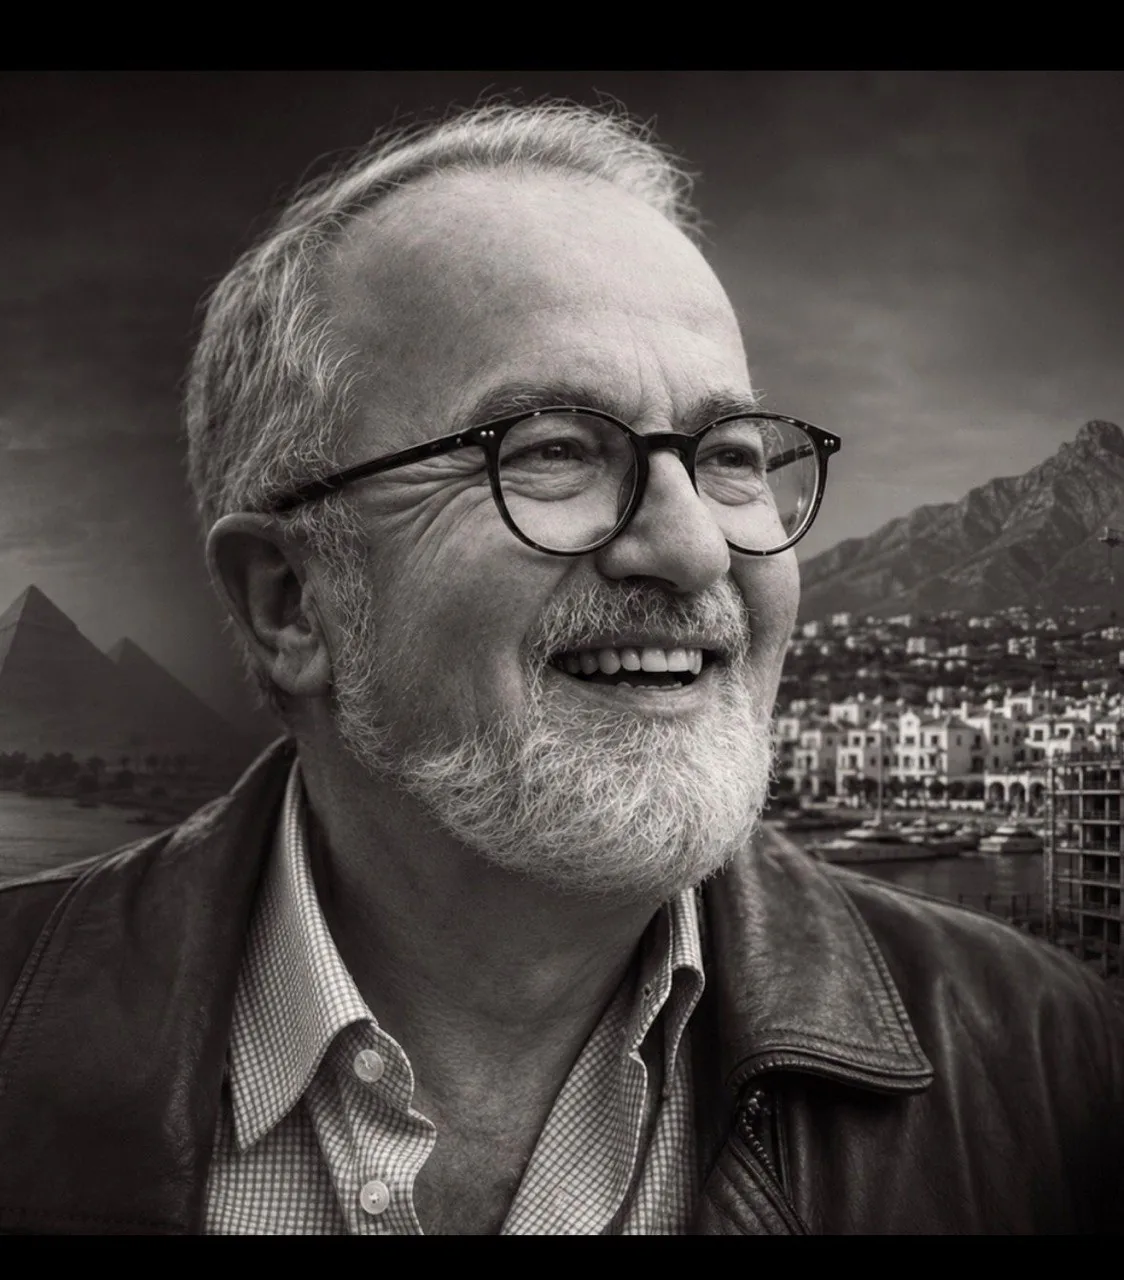
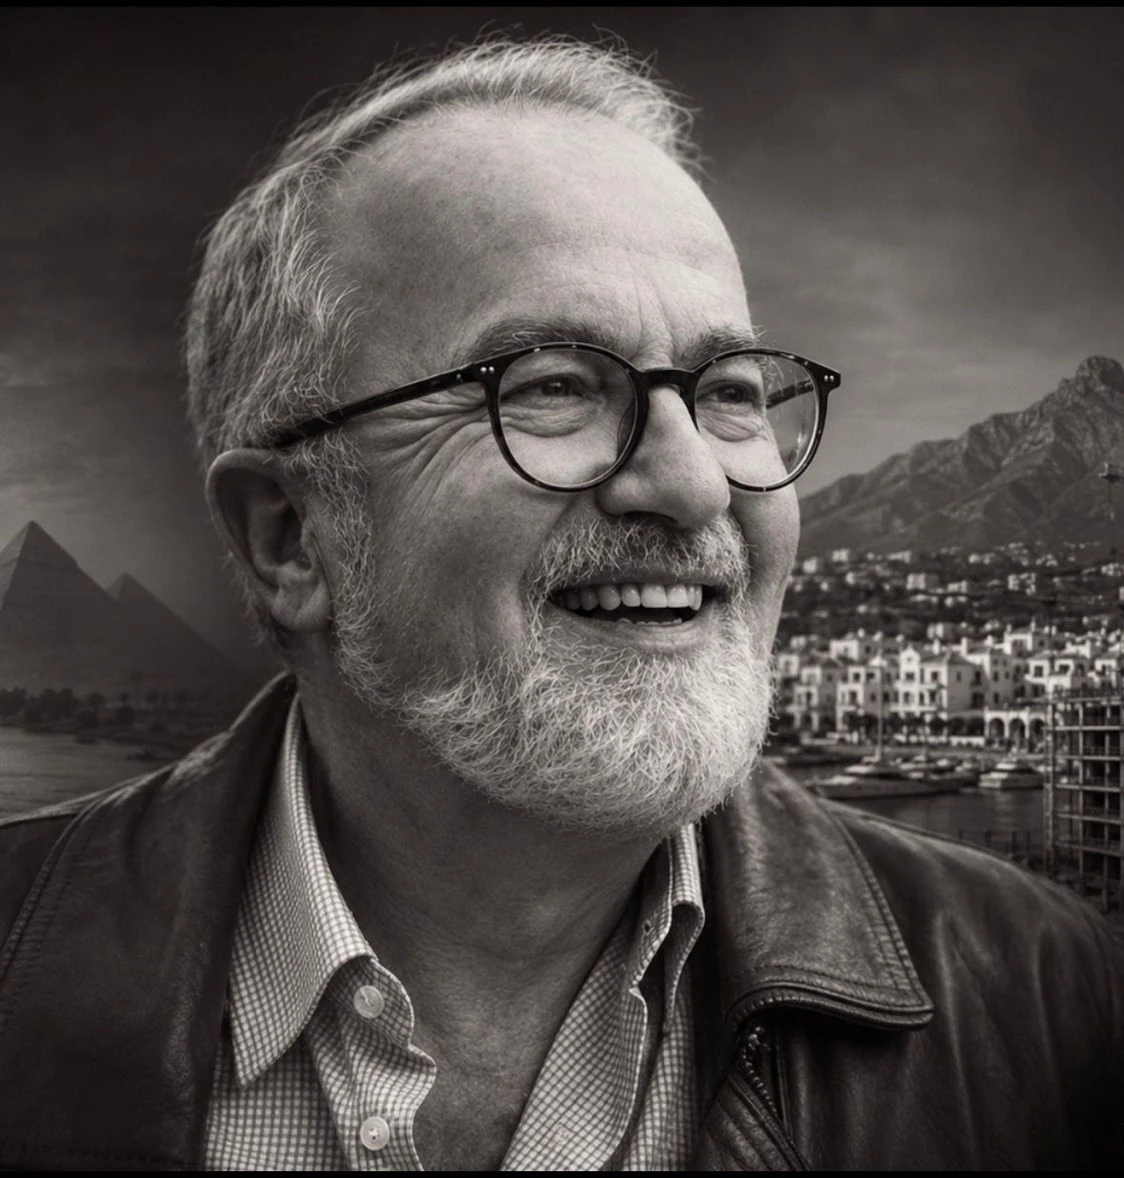
fix(angimen): foto sin bandas negras + 3 idiomas consistente + traducciones ES
- Foto George Kahil recortada (1124x1280 → 1124x1178) eliminando bandas
  negras intrínsecas del JPG. Añadida también a EN + AR (antes faltaba).
- Topbar + stat-band + origin-stats todos a "3 idiomas · ES · EN · AR"
  (antes inconsistente: 3 banderas arriba vs "4 idiomas · ES·EN·AR·FR" abajo).
  Página FR no existe todavía, queda como decisión pendiente.
- index.html ES: title/description/schema/áreas/footer/hero/H1/tags portfolio
  todo en español ("Property Management" → "Gestión de propiedades",
  "House Management" → "Gestión de propiedades", "Beach Clubs" → "Clubs de playa",
  "Wellness" → "Spa", "Construction · Renovation · Maintenance" → ES).
- Portfolio EN + AR: eliminados 6 items fake (Villa Golden Mile, Banús
  Apartment, Sierra Blanca Gardens, Central Façade, MaxBeach Wellness,
  Banús Commercial) que reusaban imágenes de restaurantes. Sustituidos
  por placeholder único "casos privados bajo NDA" (idéntico a ES).

diff --git a/ar/index.html b/ar/index.html
@@ -247,46 +247,17 @@
                     <span class="portfolio-item-cat-tag">نادٍ شاطئي</span>
                 </div>
             </article>
-            <article class="portfolio-item" data-cat="villas" data-name="Villa Golden Mile" data-loc="جولدن مايل، ماربيلا" data-work="إدارة الممتلكات · صيانة شاملة" data-desc="إشراف دوري على العقار، تنسيق الحدائق والمسبح، التحكّم في الأعطال، والتحضير قبل وصول المالك. إدارة على مدار العام." data-img="../assets/img/c/cibo-interior.jpg">
-                <div class="portfolio-item-img"><img src="../assets/img/c/cibo-interior.jpg" alt="فيلا جولدن مايل · ماربيلا" loading="lazy"></div>
-                <div class="portfolio-item-info">
-                    <div><h4 class="portfolio-item-name">Villa Golden Mile</h4><div class="portfolio-item-meta"><span>جولدن مايل · ماربيلا</span><span>إدارة الممتلكات</span></div></div>
-                    <span class="portfolio-item-cat-tag">فيلا خاصة</span>
+            <!-- مشاريع سكنية خاصة في انتظار صور فعلية من العميل -->
+            <article class="portfolio-item portfolio-item-pending" data-cat="villas" data-name="مزيد من الحالات الخاصة">
+                <div class="portfolio-item-img portfolio-item-placeholder" aria-hidden="true">
+                    <div class="placeholder-inner">
+                        <span class="placeholder-icon">+</span>
+                        <span class="placeholder-text">مزيد من الحالات الخاصة</span>
+                    </div>
                 </div>
-            </article>
-            <article class="portfolio-item" data-cat="apartamentos" data-name="شقة بويرتو بانوس" data-loc="بويرتو بانوس، ماربيلا" data-work="تجديد · ديكور" data-desc="تجديد جزئي مع تحديث المطبخ والحمامات والمناطق المشتركة. ديكور وتجهيز للإيجار السياحي. تنسيق بمواعيد محدّدة." data-img="../assets/img/c/koi-interior.jpg">
-                <div class="portfolio-item-img"><img src="../assets/img/c/koi-interior.jpg" alt="شقة بويرتو بانوس" loading="lazy"></div>
                 <div class="portfolio-item-info">
-                    <div><h4 class="portfolio-item-name">شقة بانوس</h4><div class="portfolio-item-meta"><span>بويرتو بانوس · ماربيلا</span><span>تجديد · ديكور</span></div></div>
-                    <span class="portfolio-item-cat-tag">شقة</span>
-                </div>
-            </article>
-            <article class="portfolio-item" data-cat="exteriores" data-name="حدائق سييرا بلانكا" data-loc="سييرا بلانكا، ماربيلا" data-work="صيانة · تصميم خارجي" data-desc="صيانة شاملة للحدائق ونظام الري ومنطقة المسبح. تنسيق الطلاء والنجارة الخارجية ومراجعة الأعطال الموسمية." data-img="../assets/img/c/leone-interior.jpg">
-                <div class="portfolio-item-img"><img src="../assets/img/c/leone-interior.jpg" alt="حدائق سييرا بلانكا" loading="lazy"></div>
-                <div class="portfolio-item-info">
-                    <div><h4 class="portfolio-item-name">حدائق سييرا بلانكا</h4><div class="portfolio-item-meta"><span>سييرا بلانكا · ماربيلا</span><span>صيانة · خارجي</span></div></div>
-                    <span class="portfolio-item-cat-tag">حدائق</span>
-                </div>
-            </article>
-            <article class="portfolio-item" data-cat="fachadas" data-name="واجهة مبنى المركز" data-loc="وسط ماربيلا" data-work="طلاء · إصلاح" data-desc="طلاء وإصلاح الواجهة الرئيسية. مراجعة الرطوبات والأعطال، تنسيق الأعمال العمودية، وتحسين جمالي للمداخل." data-img="../assets/img/c/cibo-architectural.jpg">
-                <div class="portfolio-item-img"><img src="../assets/img/c/cibo-architectural.jpg" alt="واجهة وسط ماربيلا" loading="lazy"></div>
-                <div class="portfolio-item-info">
-                    <div><h4 class="portfolio-item-name">واجهة مبنى المركز</h4><div class="portfolio-item-meta"><span>وسط ماربيلا</span><span>طلاء · إصلاح</span></div></div>
-                    <span class="portfolio-item-cat-tag">واجهة</span>
-                </div>
-            </article>
-            <article class="portfolio-item" data-cat="wellness" data-name="MaxBeach Wellness" data-loc="ماربيلا" data-work="تجهيز · صيانة" data-desc="تجهيز فضاء الويلنس ومنطقة التدريب. تنسيق التركيبات والأرضيات الفنية والإضاءة والتكييف. صيانة وقائية مستمرة." data-img="../assets/img/c/jacks-interior.jpg">
-                <div class="portfolio-item-img"><img src="../assets/img/c/jacks-interior.jpg" alt="MaxBeach Wellness · ماربيلا" loading="lazy"></div>
-                <div class="portfolio-item-info">
-                    <div><h4 class="portfolio-item-name">MaxBeach Wellness</h4><div class="portfolio-item-meta"><span>ماربيلا</span><span>تجهيز · صيانة</span></div></div>
-                    <span class="portfolio-item-cat-tag">ويلنس</span>
-                </div>
-            </article>
-            <article class="portfolio-item" data-cat="comerciales" data-name="محل بانوس" data-loc="بويرتو بانوس، ماربيلا" data-work="تجديد · تنسيق" data-desc="تجديد المحل التجاري مع التكييف للاستخدام اليومي. تنسيق التركيبات الكهربائية، التكييف، والإشراف الفني على التسليم." data-img="../assets/img/c/jacks-interior.jpg">
-                <div class="portfolio-item-img"><img src="../assets/img/c/jacks-interior.jpg" alt="محل بانوس" loading="lazy"></div>
-                <div class="portfolio-item-info">
-                    <div><h4 class="portfolio-item-name">محل بانوس</h4><div class="portfolio-item-meta"><span>بويرتو بانوس · ماربيلا</span><span>تجديد · تنسيق</span></div></div>
-                    <span class="portfolio-item-cat-tag">محل تجاري</span>
+                    <div><h4 class="portfolio-item-name">حالات سكنية خاصة</h4><div class="portfolio-item-meta"><span>ماربيلا · بويرتو بانوس · جولدن مايل</span><span>متاحة بموجب اتفاقية سرّية</span></div></div>
+                    <span class="portfolio-item-cat-tag">خاص</span>
                 </div>
             </article>
         </div>
@@ -299,13 +270,22 @@
     <div class="origin-content fade-in">
         <span class="eyebrow">— تاريخنا —</span>
         <h2>مبنيٌّ على <em>40 عاماً</em><br>من الخبرة.</h2>
+
+        <figure class="origin-portrait">
+            <picture>
+                <source srcset="../assets/img/george-kahil-portrait.webp" type="image/webp">
+                <img src="../assets/img/george-kahil-portrait.jpg" alt="جورج كاهيل — مؤسس أنجيمن هولدنغ" loading="lazy" decoding="async" width="1124" height="1178">
+            </picture>
+            <figcaption>جورج كاهيل · المؤسس · ماربيلا منذ أكثر من أربعة عقود</figcaption>
+        </figure>
+
         <p>وُلدت أنجيمن هولدنغ من رؤية <strong>جورج كاهيل</strong> ومسار يزيد على أربعة عقود مرتبطٍ بقطاع العقارات والبناء والتجديد وصيانة الممتلكات في ماربيلا وكوستا ديل سول.</p>
         <p>عملنا إلى جانب مُلّاك ومجمّعات وشركات وعملاء دوليين كانوا بحاجة إلى أكثر من مجرّد مزوّد: كانوا بحاجة إلى شخصٍ محلي، جدّي، وقادر على تنسيق كل تفصيل.</p>
         <p>نعرف ماربيلا، ومناطقها الأكثر تميّزاً، وعقاراتها، وإيقاعها، ومتطلّباتها. نعرف أيضاً المهنيين المناسبين لتنفيذ كل عمل بحكمة وسرّية ومتابعة.</p>
         <div class="origin-stats">
             <div><div class="origin-stat-num"><em>40+</em> عاماً</div><div class="origin-stat-label">من الخبرة</div></div>
             <div><div class="origin-stat-num"><em>1996</em></div><div class="origin-stat-label">سنة التأسيس</div></div>
-            <div><div class="origin-stat-num">4 لغات</div><div class="origin-stat-label">ES · EN · AR · FR</div></div>
+            <div><div class="origin-stat-num">3 لغات</div><div class="origin-stat-label">ES · EN · AR</div></div>
         </div>
     </div>
 </section>

diff --git a/en/index.html b/en/index.html
@@ -261,46 +261,17 @@
                     <span class="portfolio-item-cat-tag">Beach Club</span>
                 </div>
             </article>
-            <article class="portfolio-item" data-cat="villas" data-name="Villa Golden Mile" data-loc="Golden Mile, Marbella" data-work="House Management · Maintenance" data-desc="Periodic property supervision, coordination of gardening and pool, incident control and preparation before owner arrival. Year-round management." data-img="../assets/img/c/cibo-interior.jpg">
-                <div class="portfolio-item-img"><img src="../assets/img/c/cibo-interior.jpg" alt="Villa Golden Mile · Marbella" loading="lazy"></div>
-                <div class="portfolio-item-info">
-                    <div><h4 class="portfolio-item-name">Villa Golden Mile</h4><div class="portfolio-item-meta"><span>Golden Mile · Marbella</span><span>House Management</span></div></div>
-                    <span class="portfolio-item-cat-tag">Private Villa</span>
+            <!-- Residential portfolio items pending real photos from client -->
+            <article class="portfolio-item portfolio-item-pending" data-cat="villas" data-name="More private cases">
+                <div class="portfolio-item-img portfolio-item-placeholder" aria-hidden="true">
+                    <div class="placeholder-inner">
+                        <span class="placeholder-icon">+</span>
+                        <span class="placeholder-text">More private cases</span>
+                    </div>
                 </div>
-            </article>
-            <article class="portfolio-item" data-cat="apartamentos" data-name="Puerto Banús Apartment" data-loc="Puerto Banús, Marbella" data-work="Renovation · Decoration" data-desc="Partial renovation updating kitchen, bathrooms and common areas. Decoration and set-up for holiday rental. Coordination with defined deadlines." data-img="../assets/img/c/koi-interior.jpg">
-                <div class="portfolio-item-img"><img src="../assets/img/c/koi-interior.jpg" alt="Puerto Banús Apartment · Marbella" loading="lazy"></div>
                 <div class="portfolio-item-info">
-                    <div><h4 class="portfolio-item-name">Banús Apartment</h4><div class="portfolio-item-meta"><span>Puerto Banús · Marbella</span><span>Renovation · Decoration</span></div></div>
-                    <span class="portfolio-item-cat-tag">Apartment</span>
-                </div>
-            </article>
-            <article class="portfolio-item" data-cat="exteriores" data-name="Sierra Blanca Gardens" data-loc="Sierra Blanca, Marbella" data-work="Maintenance · Outdoor design" data-desc="Comprehensive garden maintenance, irrigation system and pool area. Coordination of painting, outdoor carpentry and seasonal incident review." data-img="../assets/img/c/leone-interior.jpg">
-                <div class="portfolio-item-img"><img src="../assets/img/c/leone-interior.jpg" alt="Sierra Blanca Gardens · Marbella" loading="lazy"></div>
-                <div class="portfolio-item-info">
-                    <div><h4 class="portfolio-item-name">Sierra Blanca Gardens</h4><div class="portfolio-item-meta"><span>Sierra Blanca · Marbella</span><span>Maintenance · Outdoor</span></div></div>
-                    <span class="portfolio-item-cat-tag">Gardens</span>
-                </div>
-            </article>
-            <article class="portfolio-item" data-cat="fachadas" data-name="Central Building Façade" data-loc="Marbella centre" data-work="Painting · Repair" data-desc="Main façade painting and repair. Damp and damage review, coordination of vertical works and aesthetic improvement of access points." data-img="../assets/img/c/cibo-architectural.jpg">
-                <div class="portfolio-item-img"><img src="../assets/img/c/cibo-architectural.jpg" alt="Marbella centre façade" loading="lazy"></div>
-                <div class="portfolio-item-info">
-                    <div><h4 class="portfolio-item-name">Central Building Façade</h4><div class="portfolio-item-meta"><span>Marbella centre</span><span>Painting · Repair</span></div></div>
-                    <span class="portfolio-item-cat-tag">Façade</span>
-                </div>
-            </article>
-            <article class="portfolio-item" data-cat="wellness" data-name="MaxBeach Wellness" data-loc="Marbella" data-work="Refit · Maintenance" data-desc="Refit of wellness and training area. Coordination of installations, technical flooring, lighting and climate control. Ongoing preventive maintenance." data-img="../assets/img/c/jacks-interior.jpg">
-                <div class="portfolio-item-img"><img src="../assets/img/c/jacks-interior.jpg" alt="MaxBeach Wellness · Marbella" loading="lazy"></div>
-                <div class="portfolio-item-info">
-                    <div><h4 class="portfolio-item-name">MaxBeach Wellness</h4><div class="portfolio-item-meta"><span>Marbella</span><span>Refit · Maintenance</span></div></div>
-                    <span class="portfolio-item-cat-tag">Wellness</span>
-                </div>
-            </article>
-            <article class="portfolio-item" data-cat="comerciales" data-name="Banús Commercial Unit" data-loc="Puerto Banús, Marbella" data-work="Renovation · Coordination" data-desc="Commercial space renovation adapted to daily business use. Coordination of electrical installations, climate control and technical handover supervision." data-img="../assets/img/c/jacks-interior.jpg">
-                <div class="portfolio-item-img"><img src="../assets/img/c/jacks-interior.jpg" alt="Puerto Banús commercial unit" loading="lazy"></div>
-                <div class="portfolio-item-info">
-                    <div><h4 class="portfolio-item-name">Banús Commercial Unit</h4><div class="portfolio-item-meta"><span>Puerto Banús · Marbella</span><span>Renovation · Coordination</span></div></div>
-                    <span class="portfolio-item-cat-tag">Commercial</span>
+                    <div><h4 class="portfolio-item-name">Private residential cases</h4><div class="portfolio-item-meta"><span>Marbella · Puerto Banús · Golden Mile</span><span>Available under NDA</span></div></div>
+                    <span class="portfolio-item-cat-tag">Private</span>
                 </div>
             </article>
         </div>
@@ -313,13 +284,22 @@
     <div class="origin-content fade-in">
         <span class="eyebrow">— Our story —</span>
         <h2>Built on <em>40 years</em><br>of experience.</h2>
+
+        <figure class="origin-portrait">
+            <picture>
+                <source srcset="../assets/img/george-kahil-portrait.webp" type="image/webp">
+                <img src="../assets/img/george-kahil-portrait.jpg" alt="George Kahil — founder of Angimen Holding" loading="lazy" decoding="async" width="1124" height="1178">
+            </picture>
+            <figcaption>George Kahil · founder · Marbella for more than four decades</figcaption>
+        </figure>
+
         <p>Angimen Holding was born from the vision of <strong>George Kahil</strong> and a trajectory of more than four decades linked to the real estate, construction, renovation and maintenance sectors in Marbella and the Costa del Sol.</p>
         <p>We have worked alongside owners, communities, businesses and international clients who needed more than just a provider: they needed someone local, serious and capable of coordinating every detail.</p>
         <p>We know Marbella, its most exclusive areas, its properties, its rhythms and its demands. We also know the right professionals to execute each task with judgement, discretion and follow-through.</p>
         <div class="origin-stats">
             <div><div class="origin-stat-num"><em>40+</em> years</div><div class="origin-stat-label">Of experience</div></div>
             <div><div class="origin-stat-num"><em>1996</em></div><div class="origin-stat-label">Company established</div></div>
-            <div><div class="origin-stat-num">4 languages</div><div class="origin-stat-label">ES · EN · AR · FR</div></div>
+            <div><div class="origin-stat-num">3 languages</div><div class="origin-stat-label">ES · EN · AR</div></div>
         </div>
     </div>
 </section>

diff --git a/index.html b/index.html
@@ -4,8 +4,8 @@
     <meta charset="UTF-8">
     <meta name="viewport" content="width=device-width, initial-scale=1.0">
     <meta name="theme-color" content="#F4EDE0">
-    <title>Property Management, Construcción y Reformas en Marbella · Angimen Holding</title>
-    <meta name="description" content="Property Management, Construcción, Reformas y Mantenimiento de propiedades de alto nivel en Marbella, Puerto Banús y Golden Mile. Más de 40 años de experiencia.">
+    <title>Gestión de propiedades, Construcción y Reformas en Marbella · Angimen Holding</title>
+    <meta name="description" content="Gestión de propiedades, Construcción, Reformas y Mantenimiento de propiedades de alto nivel en Marbella, Puerto Banús y Golden Mile. Más de 40 años de experiencia.">
     <meta name="robots" content="noindex,nofollow">
     <link rel="canonical" href="https://angimenholding.com/">
 
@@ -16,7 +16,7 @@
     <link rel="alternate" hreflang="ar-SA" href="https://angimenholding.com/ar/">
     <link rel="alternate" hreflang="x-default" href="https://angimenholding.com/">
 
-    <meta property="og:title" content="Property Management, Construcción y Reformas en Marbella · Angimen Holding">
+    <meta property="og:title" content="Gestión de propiedades, Construcción y Reformas en Marbella · Angimen Holding">
     <meta property="og:description" content="Más de 40 años gestionando, construyendo, reformando y manteniendo propiedades de alto nivel en Marbella.">
     <meta property="og:type" content="website">
     <meta property="og:locale" content="es_ES">
@@ -39,7 +39,7 @@
       "@id": "https://angimenholding.com/#business",
       "name": "Angimen Holding",
       "legalName": "Angimen Holding Investment SL",
-      "description": "Property Management, Construcción, Reformas y Mantenimiento de propiedades de alto nivel en Marbella, Puerto Banús y Golden Mile. Más de 40 años de experiencia.",
+      "description": "Gestión de propiedades, Construcción, Reformas y Mantenimiento de propiedades de alto nivel en Marbella, Puerto Banús y Golden Mile. Más de 40 años de experiencia.",
       "url": "https://angimenholding.com/",
       "image": "https://angimenholding.com/assets/img/hero/villa_marbella.jpg",
       "telephone": "+34000000000",
@@ -62,8 +62,8 @@
         "@type": "OfferCatalog",
         "name": "Servicios Angimen Holding",
         "itemListElement": [
-          {"@type": "Offer", "itemOffered": {"@type": "Service", "name": "House Management — Gestión de comunidades, fincas y villas privadas"}},
-          {"@type": "Offer", "itemOffered": {"@type": "Service", "name": "Construcción y Reforma — Villas, apartamentos, fachadas, restaurantes, beach clubs"}},
+          {"@type": "Offer", "itemOffered": {"@type": "Service", "name": "Gestión de propiedades — Comunidades, fincas y villas privadas"}},
+          {"@type": "Offer", "itemOffered": {"@type": "Service", "name": "Construcción y Reforma — Villas, apartamentos, fachadas, restaurantes, clubs de playa"}},
           {"@type": "Offer", "itemOffered": {"@type": "Service", "name": "Mantenimiento de propiedades — Jardines, piscinas, instalaciones, urgencias"}},
           {"@type": "Offer", "itemOffered": {"@type": "Service", "name": "Soporte inmobiliario para propietarios internacionales"}}
         ]
@@ -104,7 +104,7 @@
     </div>
     <div class="hero-content">
         <span class="hero-eyebrow">— Marbella · Puerto Banús · Golden Mile · Sierra Blanca · La Zagaleta —</span>
-        <h1>Property Management,<br>Construcción y Reformas<br>en Marbella, <em>desde 1996.</em></h1>
+        <h1>Gestión de propiedades,<br>Construcción y Reformas<br>en Marbella, <em>desde 1996.</em></h1>
         <p class="hero-tagline">Más de 40 años de experiencia gestionando, construyendo, reformando y manteniendo propiedades de alto nivel en Marbella, Puerto Banús y la Costa del Sol.</p>
         <div class="hero-cta">
             <a href="#contacto" class="btn btn-accent">Reservar consulta privada</a>
@@ -125,8 +125,8 @@
             <div class="stat-label">Angimen Holding Investment SL</div>
         </div>
         <div class="stat-item fade-in">
-            <div class="stat-num">Atención <em>multilingüe</em></div>
-            <div class="stat-label">Español · English · العربية</div>
+            <div class="stat-num">Atención <em>trilingüe</em></div>
+            <div class="stat-label">Español · Inglés · Árabe</div>
         </div>
     </div>
 </section>
@@ -157,7 +157,7 @@
             <article class="area-row fade-in">
                 <div class="area-row-num">01</div>
                 <div class="area-row-content">
-                    <h3>House <em>Management</em></h3>
+                    <h3>Gestión <em>de propiedades</em></h3>
                     <p>Gestión diaria de propiedades premium para que todo funcione, se mantenga y esté siempre en buen estado. Trabajamos con comunidades de lujo, fincas privadas y villas en Marbella y la Costa del Sol.</p>
                     <ul class="area-list">
                         <li>Gestión de comunidades y fincas de lujo</li>
@@ -180,7 +180,7 @@
                         <span class="area-tag">Apartamentos</span>
                         <span class="area-tag">Fachadas</span>
                         <span class="area-tag">Restaurantes</span>
-                        <span class="area-tag">Beach Clubs</span>
+                        <span class="area-tag">Clubs de playa</span>
                         <span class="area-tag">Gimnasios</span>
                         <span class="area-tag">Espacios comerciales</span>
                     </div>
@@ -235,12 +235,12 @@
         <div class="portfolio-filters fade-in" role="tablist">
             <button class="portfolio-filter active" data-filter="all">Todos</button>
             <button class="portfolio-filter" data-filter="restaurantes">Restaurantes</button>
-            <button class="portfolio-filter" data-filter="beachclubs">Beach Clubs</button>
+            <button class="portfolio-filter" data-filter="beachclubs">Clubs de playa</button>
             <button class="portfolio-filter" data-filter="villas">Villas</button>
             <button class="portfolio-filter" data-filter="apartamentos">Apartamentos</button>
             <button class="portfolio-filter" data-filter="exteriores">Jardines &amp; Piscinas</button>
             <button class="portfolio-filter" data-filter="fachadas">Fachadas</button>
-            <button class="portfolio-filter" data-filter="wellness">Gimnasios &amp; Wellness</button>
+            <button class="portfolio-filter" data-filter="wellness">Gimnasios y Spa</button>
             <button class="portfolio-filter" data-filter="comerciales">Espacios Comerciales</button>
         </div>
 
@@ -284,7 +284,7 @@
                 <div class="portfolio-item-img"><img src="assets/img/c/nomad-architectural.jpg" alt="Nomad Beach · Marbella" loading="lazy"></div>
                 <div class="portfolio-item-info">
                     <div><h4 class="portfolio-item-name">Nomad Beach</h4><div class="portfolio-item-meta"><span>Marbella</span><span>Reforma · Mantenimiento</span></div></div>
-                    <span class="portfolio-item-cat-tag">Beach Club</span>
+                    <span class="portfolio-item-cat-tag">Club de playa</span>
                 </div>
             </article>
             <!-- Items residenciales pendientes de fotos reales del cliente — se añadirán cuando lleguen -->
@@ -316,7 +316,7 @@
         <figure class="origin-portrait">
             <picture>
                 <source srcset="assets/img/george-kahil-portrait.webp" type="image/webp">
-                <img src="assets/img/george-kahil-portrait.jpg" alt="George Kahil — fundador de Angimen Holding" loading="lazy" width="1124" height="1280">
+                <img src="assets/img/george-kahil-portrait.jpg" alt="George Kahil — fundador de Angimen Holding" loading="lazy" decoding="async" width="1124" height="1178">
             </picture>
             <figcaption>George Kahil · fundador · Marbella desde hace más de cuatro décadas</figcaption>
         </figure>
@@ -327,7 +327,7 @@
         <div class="origin-stats">
             <div><div class="origin-stat-num"><em>40+</em> años</div><div class="origin-stat-label">De experiencia</div></div>
             <div><div class="origin-stat-num"><em>1996</em></div><div class="origin-stat-label">Sociedad constituida</div></div>
-            <div><div class="origin-stat-num">4 idiomas</div><div class="origin-stat-label">ES · EN · AR · FR</div></div>
+            <div><div class="origin-stat-num">3 idiomas</div><div class="origin-stat-label">ES · EN · AR</div></div>
         </div>
     </div>
 </section>
@@ -386,8 +386,8 @@
                 <div class="form-row"><label for="project-type">Tipo de proyecto</label>
                     <select id="project-type" name="project-type" required>
                         <option value="">Selecciona</option>
-                        <option>House Management</option>
-                        <option>Villa Management</option>
+                        <option>Gestión de propiedad</option>
+                        <option>Gestión de villa privada</option>
                         <option>Construcción / Reforma</option>
                         <option>Mantenimiento</option>
                         <option>Restaurante / Espacio comercial</option>
@@ -428,9 +428,9 @@
         <div class="footer-grid">
             <div>
                 <div class="footer-brand">Angimen <em>Holding</em></div>
-                <p class="footer-tagline">Property Management · Construction · Renovation · Maintenance<br>Marbella · Puerto Banús · Golden Mile</p>
+                <p class="footer-tagline">Gestión de propiedades · Construcción · Reformas · Mantenimiento<br>Marbella · Puerto Banús · Golden Mile</p>
             </div>
-            <div class="footer-col"><h5>Áreas</h5><a href="#areas">House Management</a><a href="#areas">Construcción y Reforma</a><a href="#areas">Mantenimiento</a><a href="#areas">Soporte Inmobiliario</a></div>
+            <div class="footer-col"><h5>Áreas</h5><a href="#areas">Gestión de propiedades</a><a href="#areas">Construcción y Reforma</a><a href="#areas">Mantenimiento</a><a href="#areas">Soporte Inmobiliario</a></div>
             <div class="footer-col"><h5>Compañía</h5><a href="#historia">Historia</a><a href="#proceso">Cómo trabajamos</a><a href="#trabajos">Trabajos</a><a href="#contacto">Contacto</a></div>
             <div class="footer-col">
                 <h5>Contacto</h5>